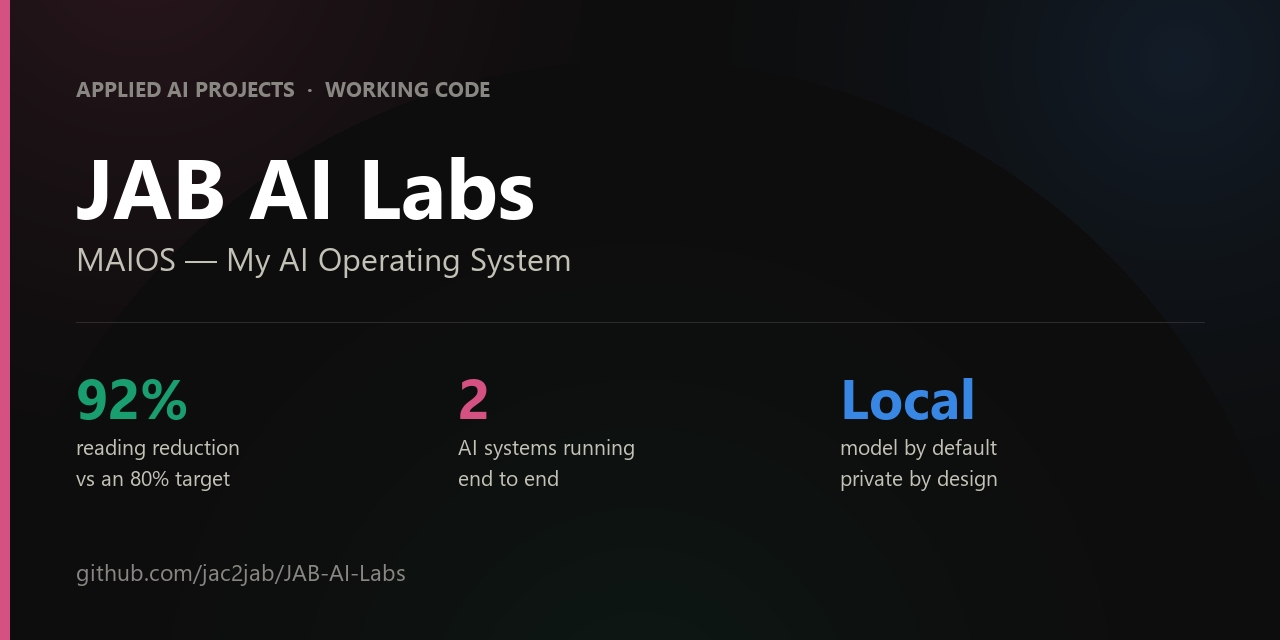
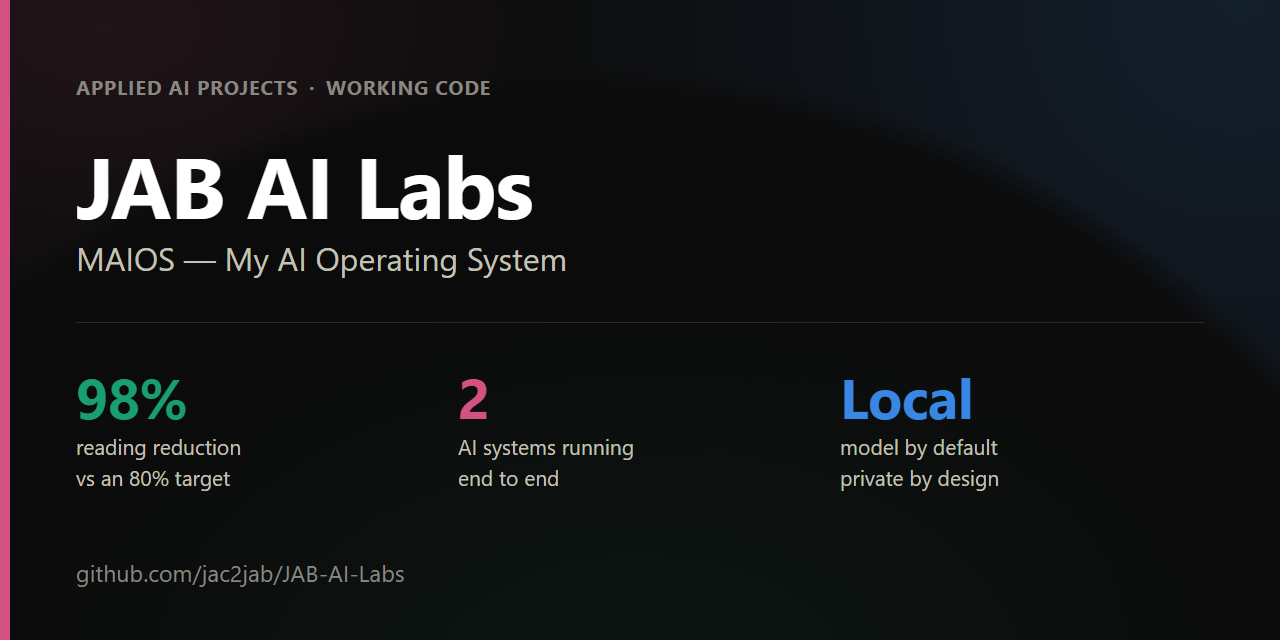
Social preview: rebuild from a template, MAIOS 92% -> 98%
The card showed 92% reading reduction, the superseded v0.4 figure. The README's
current run is 98% (39,276 words to 843, across 28 emails from 13 newsletters).

The original PNG was generated once and only its pixels were kept, so it could
not be edited. It now has a source: social-preview-template.html, rendered by
render_social_preview.py with headless Chrome in Segoe UI. Matched to the
original within 1-2px on every text element by measured extents, and on the
background by sampled pixel colour.

"2 AI systems running end to end" is kept. The Projects table now lists a third,
receipt-scanner, at v0.1 with its reading not yet measured; whether to count it
is a separate decision, and "2" remains true as a floor.

GitHub does not read this file from the repo. It must be uploaded by hand under
Settings > General > Social preview.

diff --git a/.github/social-preview-template.html b/.github/social-preview-template.html
@@ -1,0 +1,89 @@
+<!DOCTYPE html>
+<!--
+  GitHub social-preview card for JAB AI Labs. 1280x640, GitHub's recommended size.
+
+  THIS IS THE SOURCE for social-preview.png. Edit here, then run
+  render_social_preview.py in this folder. The original PNG was generated once and
+  only the pixels were kept; when its MAIOS figure went stale on 10 Sep 2026 there
+  was nothing to edit, and the card had to be rebuilt. Keep this file.
+
+  GitHub does NOT read social-preview.png from the repo. After rendering, upload it
+  by hand: repo Settings > General > Social preview > Edit > Upload an image.
+
+  Same design system as the Career Impact Dashboard card, deliberately mirrored:
+  pink accent bar and pink wash top-left, blue wash top-right.
+
+  Every figure here must match the public README. MAIOS: 98% reading reduction on
+  real mail (39,276 words to 843), verified 10 Sep 2026. Never 92% (v0.4) and never
+  "3,903 words" (a baseline the README itself retracts).
+-->
+<html lang="en">
+<head>
+<meta charset="utf-8">
+<style>
+  :root{
+    --plane:#0d0d0d; --ink:#ffffff; --ink-2:#c3c2b7; --ink-muted:#898781;
+    --s1:#3987e5; --s3:#199e70; --s5:#d55181;
+    --sans: "Segoe UI", system-ui, -apple-system, sans-serif;
+  }
+  *{box-sizing:border-box; margin:0; padding:0}
+  html,body{width:1280px; height:640px; overflow:hidden}
+  body{position:relative; background:var(--plane); font-family:var(--sans); color:var(--ink);
+       -webkit-font-smoothing:antialiased}
+  /* Layer order matters, and was worked out by sampling the original's pixels:
+     the corner glows sit BEHIND the disc, so its arc cuts across them; the green
+     floor glow sits IN FRONT, so it shows through the disc's centre. */
+  .wash-corners{
+    position:absolute; inset:0;
+    background:
+      radial-gradient(760px 460px at 8% 4%,    rgba(213,81,129,.10), transparent 60%),
+      radial-gradient(1150px 1150px at 97% 0%, rgba(57,135,229,.14), transparent 62%);
+  }
+  .wash-floor{
+    position:absolute; inset:0;
+    background:radial-gradient(1000px 640px at 50% 108%, rgba(25,158,112,.075), transparent 64%);
+  }
+  .disc{
+    position:absolute; left:-330px; top:68px; width:1860px; height:1860px; border-radius:50%;
+    /* closest-side: stops measure to the RADIUS. Without it they measure to the farthest
+       corner (~1315px here) and the fill stops ~650px out, far short of the circle. */
+    background:radial-gradient(closest-side, rgba(11,11,11,.94) 0, rgba(11,11,11,.94) 97%, rgba(11,11,11,0) 100%);
+  }
+  .bar{position:absolute; left:0; top:0; width:10px; height:640px; background:var(--s5)}
+
+  .content{position:absolute; left:76px; top:0; right:76px; height:640px}
+  .eyebrow{position:absolute; top:74px; left:0; font-size:19.5px; font-weight:700;
+           letter-spacing:.055em; text-transform:uppercase; color:var(--ink-muted); white-space:nowrap}
+  .eyebrow .sep{margin:0 .55em}
+  .name{position:absolute; top:138px; left:0; font-size:86px; font-weight:700;
+        letter-spacing:-.012em; line-height:1.08}
+  .role{position:absolute; top:236px; left:0; font-size:32px; font-weight:400; color:var(--ink-2)}
+  .rule{position:absolute; top:322px; left:0; right:0; height:1px; background:rgba(255,255,255,.12)}
+
+  .stats{position:absolute; top:366px; left:0; display:grid; grid-template-columns:repeat(3,382px)}
+  .v{display:block; font-size:56px; font-weight:700; line-height:1.1; letter-spacing:-.01em}
+  .k{display:block; margin-top:3px; font-size:21px; line-height:1.5; color:var(--ink-2)}
+  .c1{color:var(--s1)} .c3{color:var(--s3)} .c5{color:var(--s5)}
+
+  .foot{position:absolute; top:557px; left:0; font-size:23.25px; color:var(--ink-muted)}
+</style>
+</head>
+<body>
+  <div class="wash-corners"></div>
+  <div class="disc"></div>
+  <div class="wash-floor"></div>
+  <div class="bar"></div>
+  <div class="content">
+    <div class="eyebrow">Applied AI Projects<span class="sep">·</span>Working Code</div>
+    <div class="name">JAB AI Labs</div>
+    <div class="role">MAIOS — My AI Operating System</div>
+    <div class="rule"></div>
+    <div class="stats">
+      <div><span class="v c3">98%</span><span class="k">reading reduction<br>vs an 80% target</span></div>
+      <div><span class="v c5">2</span><span class="k">AI systems running<br>end to end</span></div>
+      <div><span class="v c1">Local</span><span class="k">model by default<br>private by design</span></div>
+    </div>
+    <div class="foot">github.com/jac2jab/JAB-AI-Labs</div>
+  </div>
+</body>
+</html>

diff --git a/.github/render_social_preview.py b/.github/render_social_preview.py
@@ -1,0 +1,54 @@
+# -*- coding: utf-8 -*-
+"""
+Render social-preview-template.html to social-preview.png (1280x640).
+
+    python .github/render_social_preview.py
+
+Uses headless Chrome or Edge so the card is drawn in Segoe UI, matching the Career
+Impact Dashboard card it is designed alongside.
+
+GitHub does not read this file from the repo. After rendering, upload it by hand:
+    repo Settings > General > Social preview > Edit > Upload an image
+Then refresh any cached LinkedIn card at linkedin.com/post-inspector/ .
+"""
+import os
+import subprocess
+import sys
+
+from PIL import Image
+
+HERE = os.path.dirname(os.path.abspath(__file__))
+TEMPLATE = os.path.join(HERE, "social-preview-template.html")
+OUT = os.path.join(HERE, "social-preview.png")
+W, H = 1280, 640
+
+BROWSERS = [
+    r"C:\Program Files\Google\Chrome\Application\chrome.exe",
+    r"C:\Program Files (x86)\Google\Chrome\Application\chrome.exe",
+    r"C:\Program Files (x86)\Microsoft\Edge\Application\msedge.exe",
+    r"C:\Program Files\Microsoft\Edge\Application\msedge.exe",
+]
+
+
+def main():
+    out = sys.argv[1] if len(sys.argv) > 1 else OUT
+    browser = next((b for b in BROWSERS if os.path.exists(b)), None)
+    if not browser:
+        sys.exit("No Chrome or Edge found; add its path to BROWSERS.")
+    if os.path.exists(out):
+        os.remove(out)
+    subprocess.run([browser, "--headless=new", "--disable-gpu", "--hide-scrollbars",
+                    "--force-device-scale-factor=1", "--window-size=%d,%d" % (W, H),
+                    "--default-background-color=0d0d0dff", "--screenshot=" + out,
+                    "file:///" + TEMPLATE.replace("\\", "/")],
+                   check=True, capture_output=True, timeout=60)
+    im = Image.open(out).convert("RGB")
+    if im.size != (W, H):
+        im = im.crop((0, 0, W, H))
+    im.save(out, optimize=True)
+    print("rendered %s  %dx%d  (%d bytes)" % (out, im.size[0], im.size[1], os.path.getsize(out)))
+    print("NEXT: upload it at repo Settings > General > Social preview (GitHub ignores the repo file).")
+
+
+if __name__ == "__main__":
+    main()
